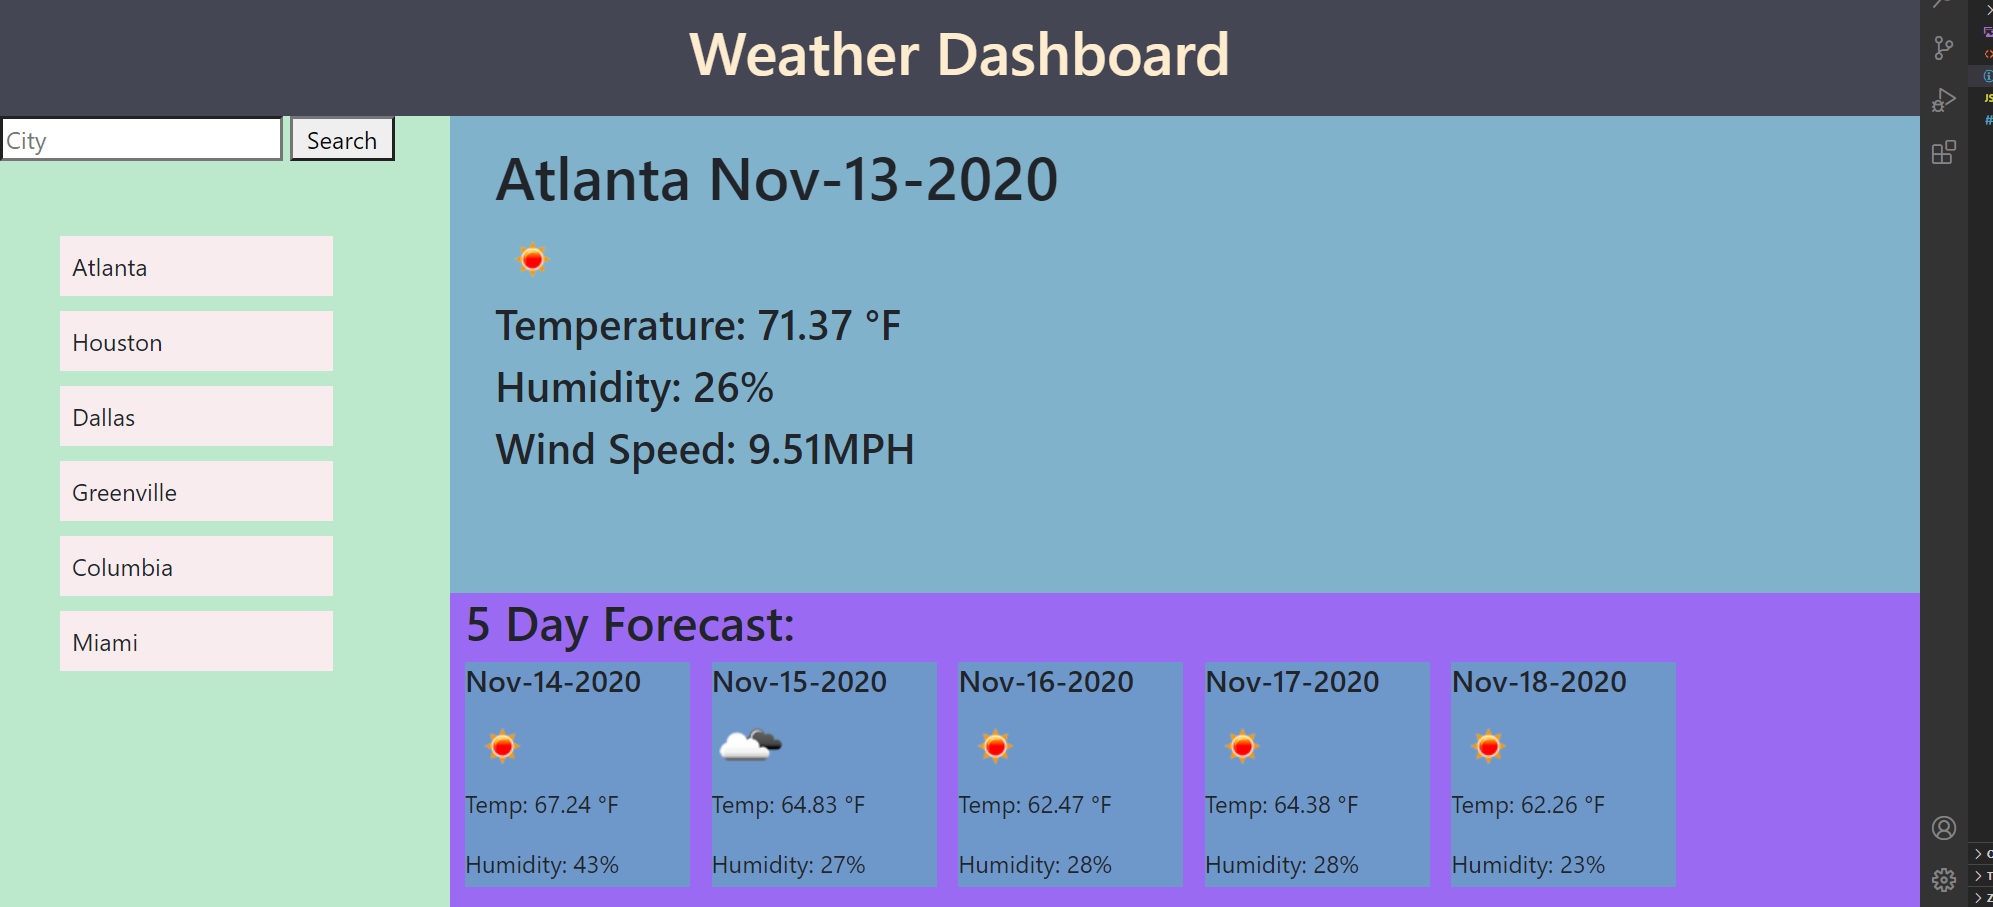
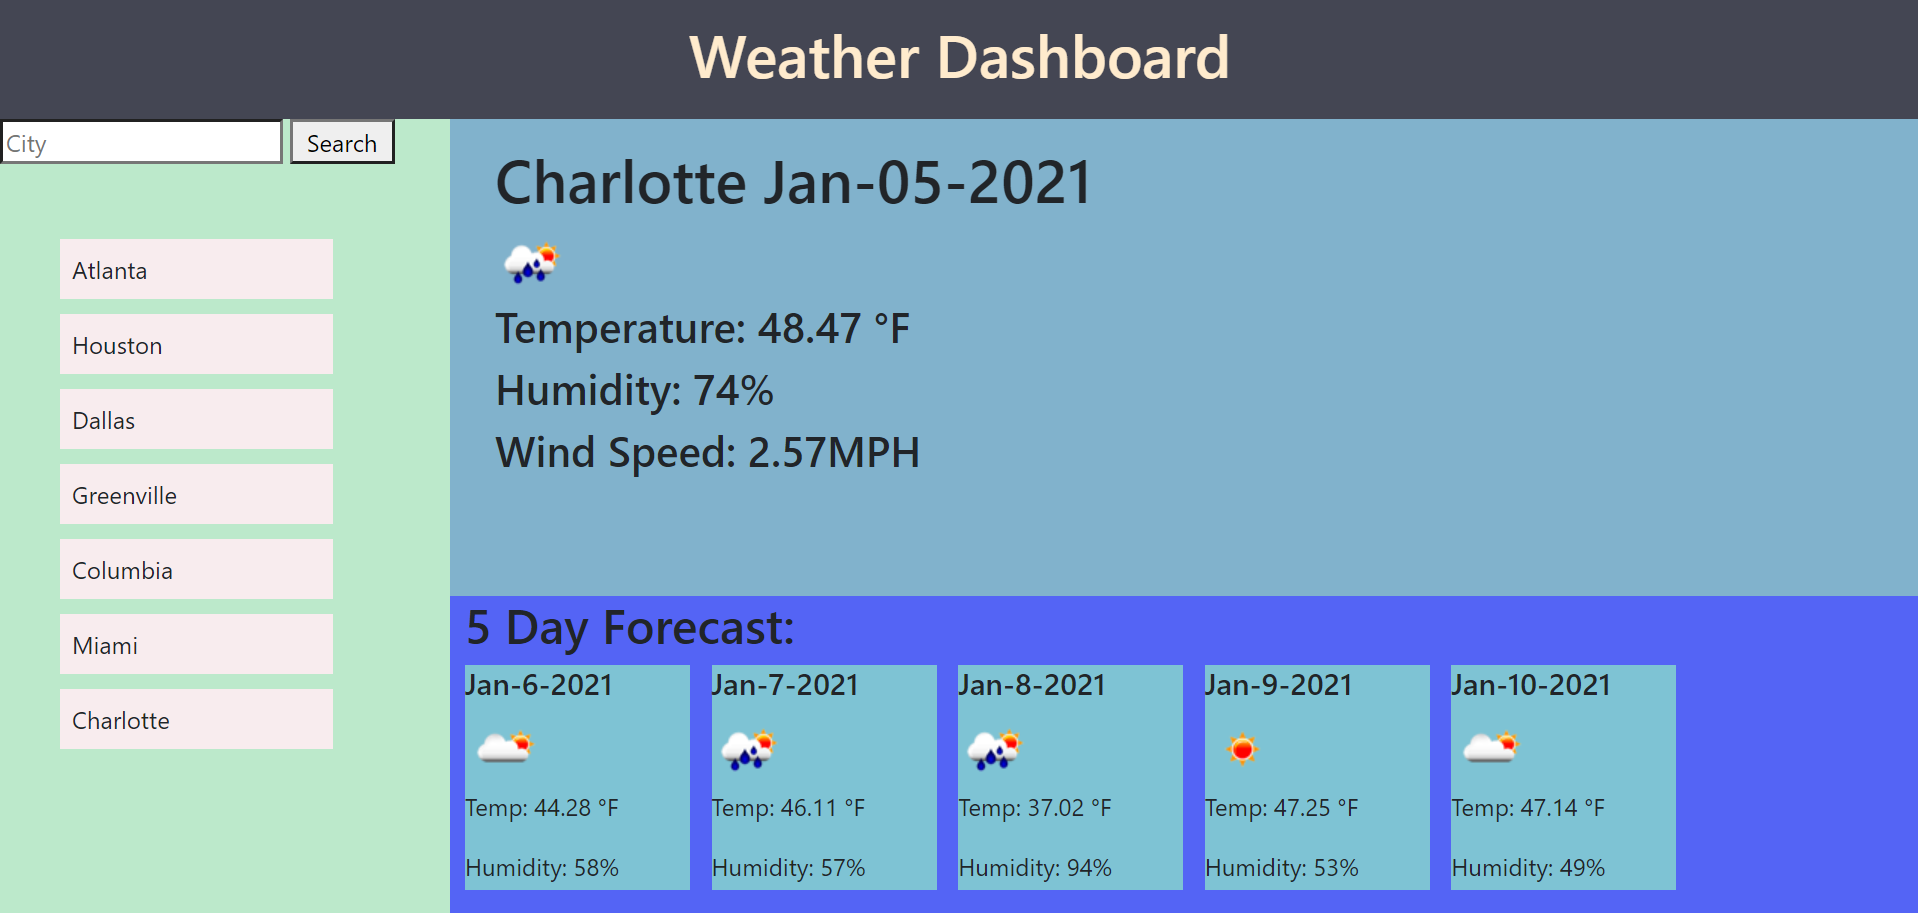
updated readme

diff --git a/style.css b/style.css
@@ -66,7 +66,7 @@
 }
 
 .forecastPanel {
-    background-color: rgb(154, 106, 243);
+    background-color: rgb(84, 100, 245);
     height: 40%;
     border: 4px;
 }
@@ -75,7 +75,7 @@
     display: inline-block;
     width: 150px;
     height: 150px;
-    background-color: rgba(100, 160, 192, 0.815);
+    background-color: rgb(126, 195, 212);
     margin-left: 10px;
 }
 

diff --git a/README.md b/README.md
@@ -1,8 +1,28 @@
-# WeatherDashboard
-https://mitchmathias.github.io/WeatherDashboard/.
+# Weather DashBoard ![badge](https://img.shields.io/badge/license-MIT-blue)
 
-View current weather data for any city you choose
+## Description 
 
-Enter cities in the search bar to get current weather data for today and the next 5 days, and reclick recent cities to go back to their weather.
+A website that displays todays forecast as well as the next five days for any city searched. It shows the date as well as Temperature, Humidity, and a forecasst icon with the conditions. This app uses https://openweathermap.org/api for all weather data.
+
+## Installation 
+
+Type a city and click search!
+
+## Usage 
+
+Type a city and click search!
+
+## Contributions 
+
+Mitch Mathias
+
+## Test 
+
+None
+
+## Questions 
+
+Email: Mitch.Mathias@gmail.com
+GitHub: https://github.com/mitchmathias
 
 ![screenshot](images\screenshot.png)
